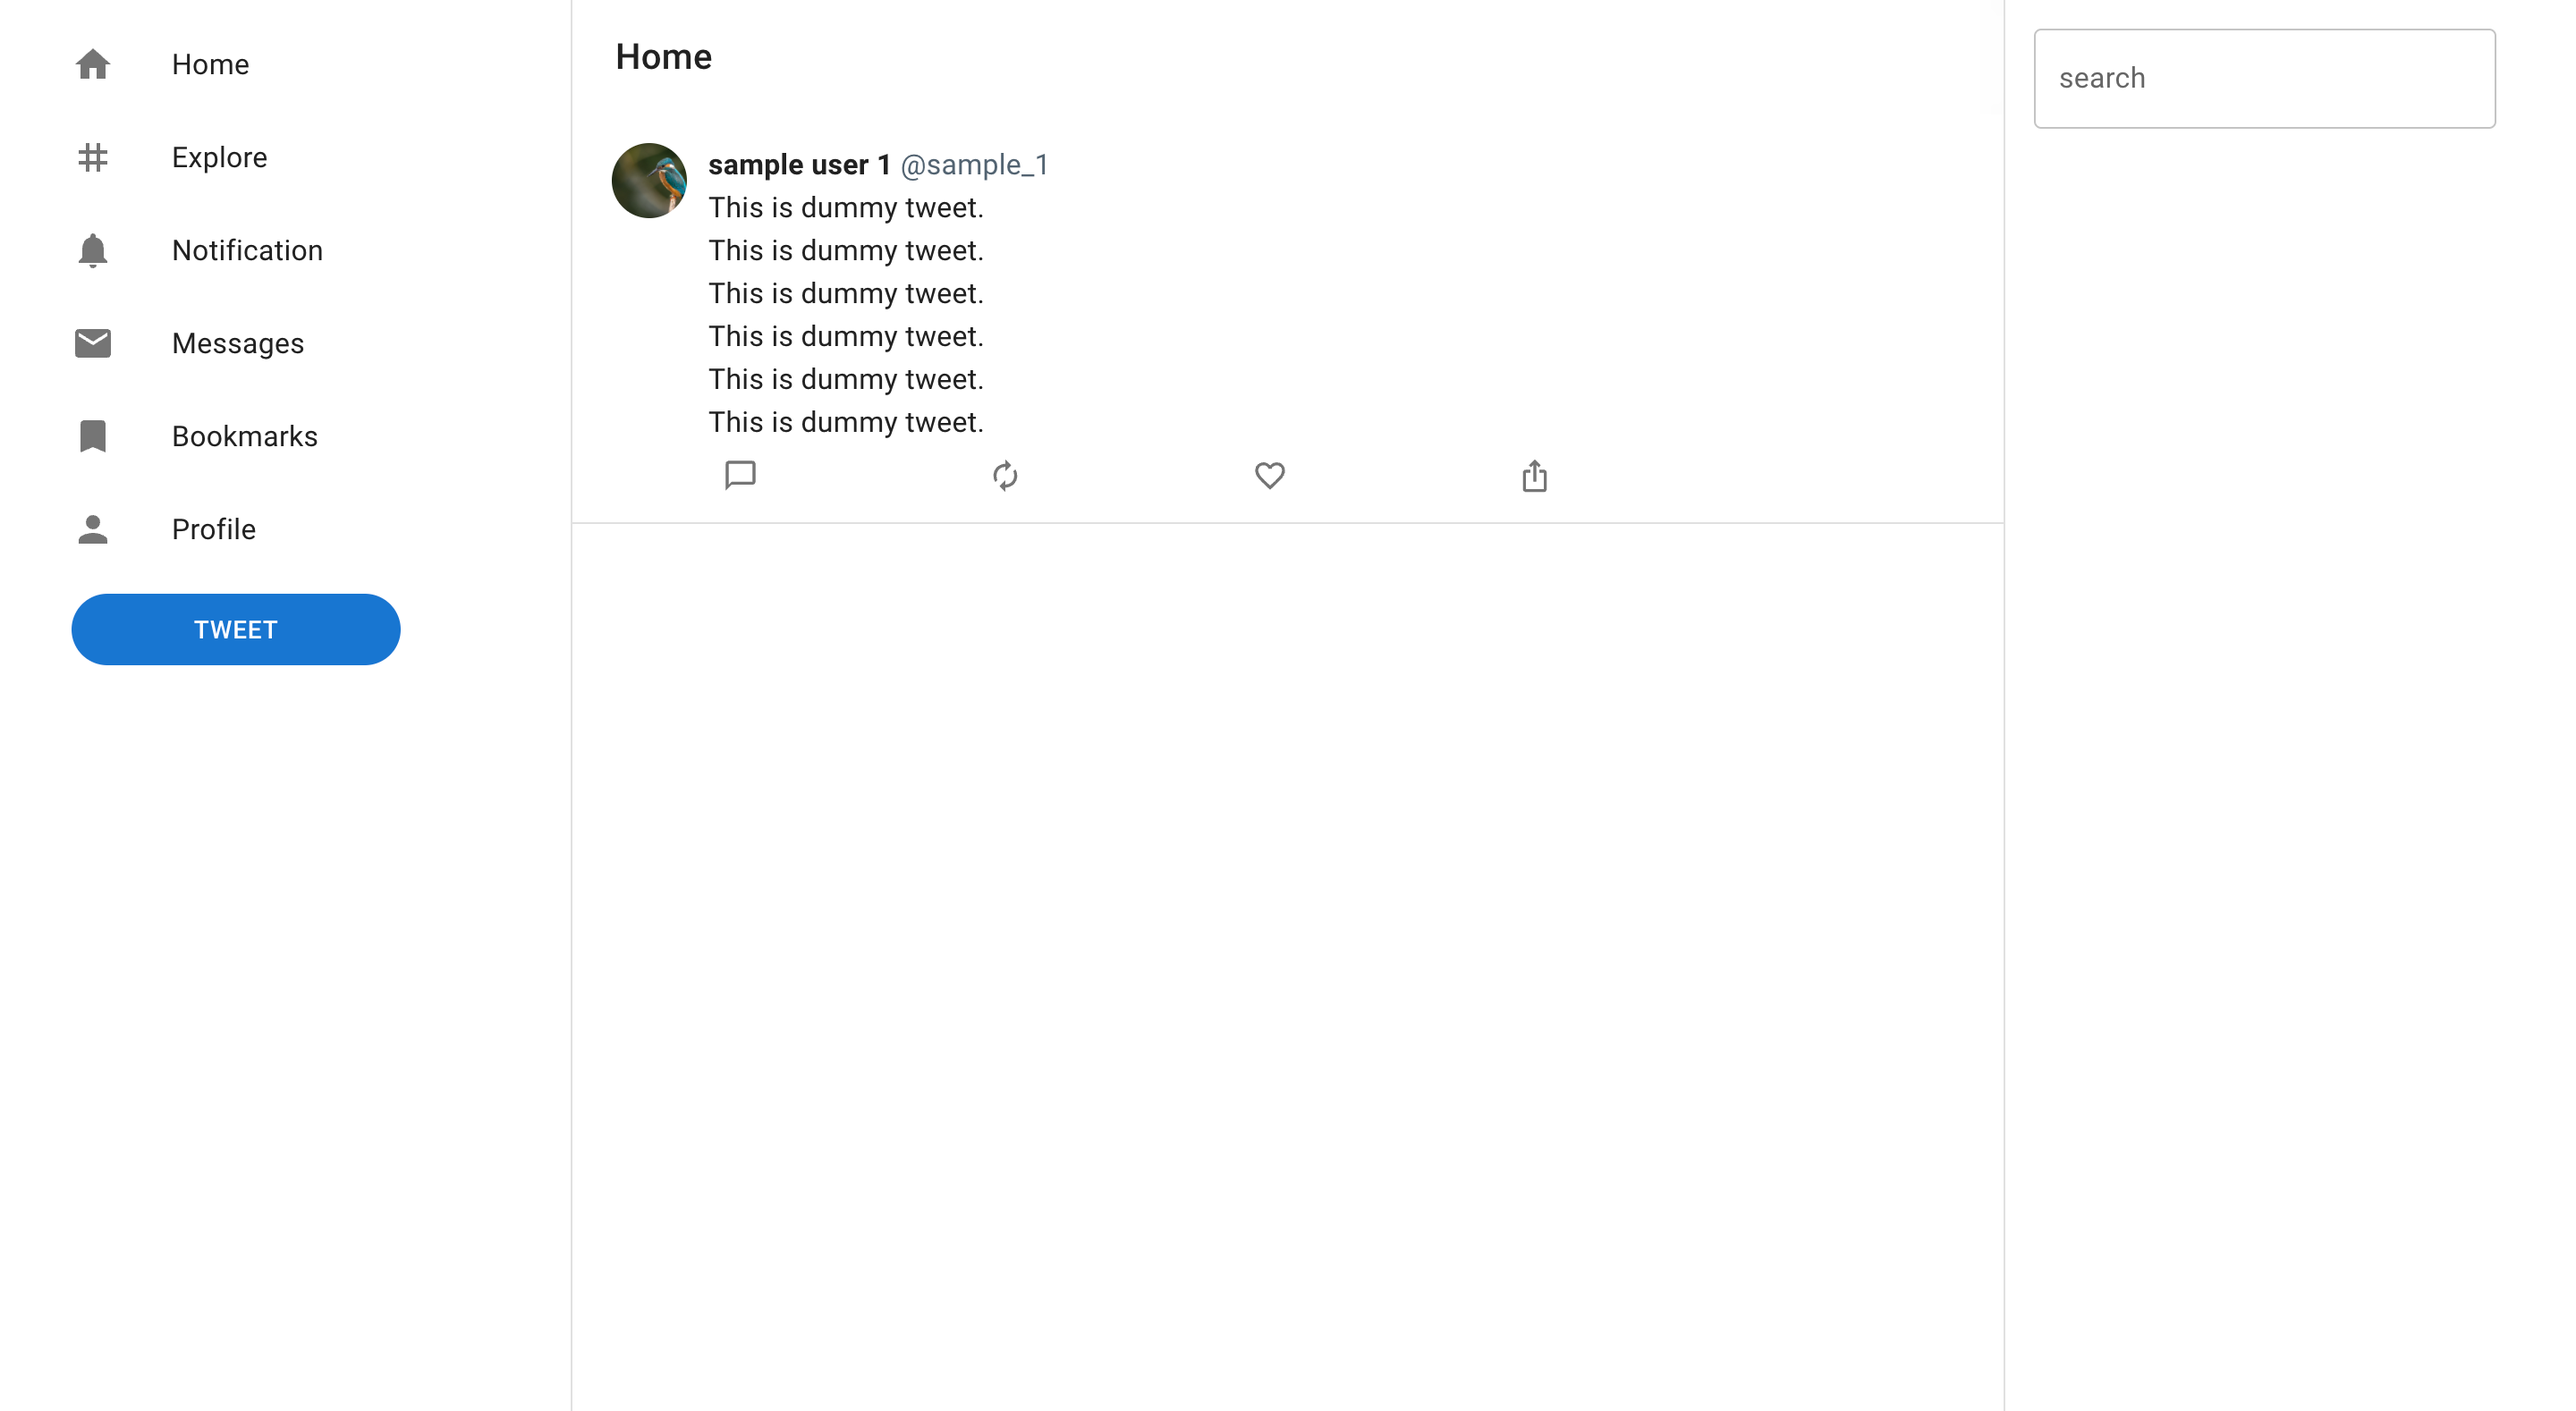
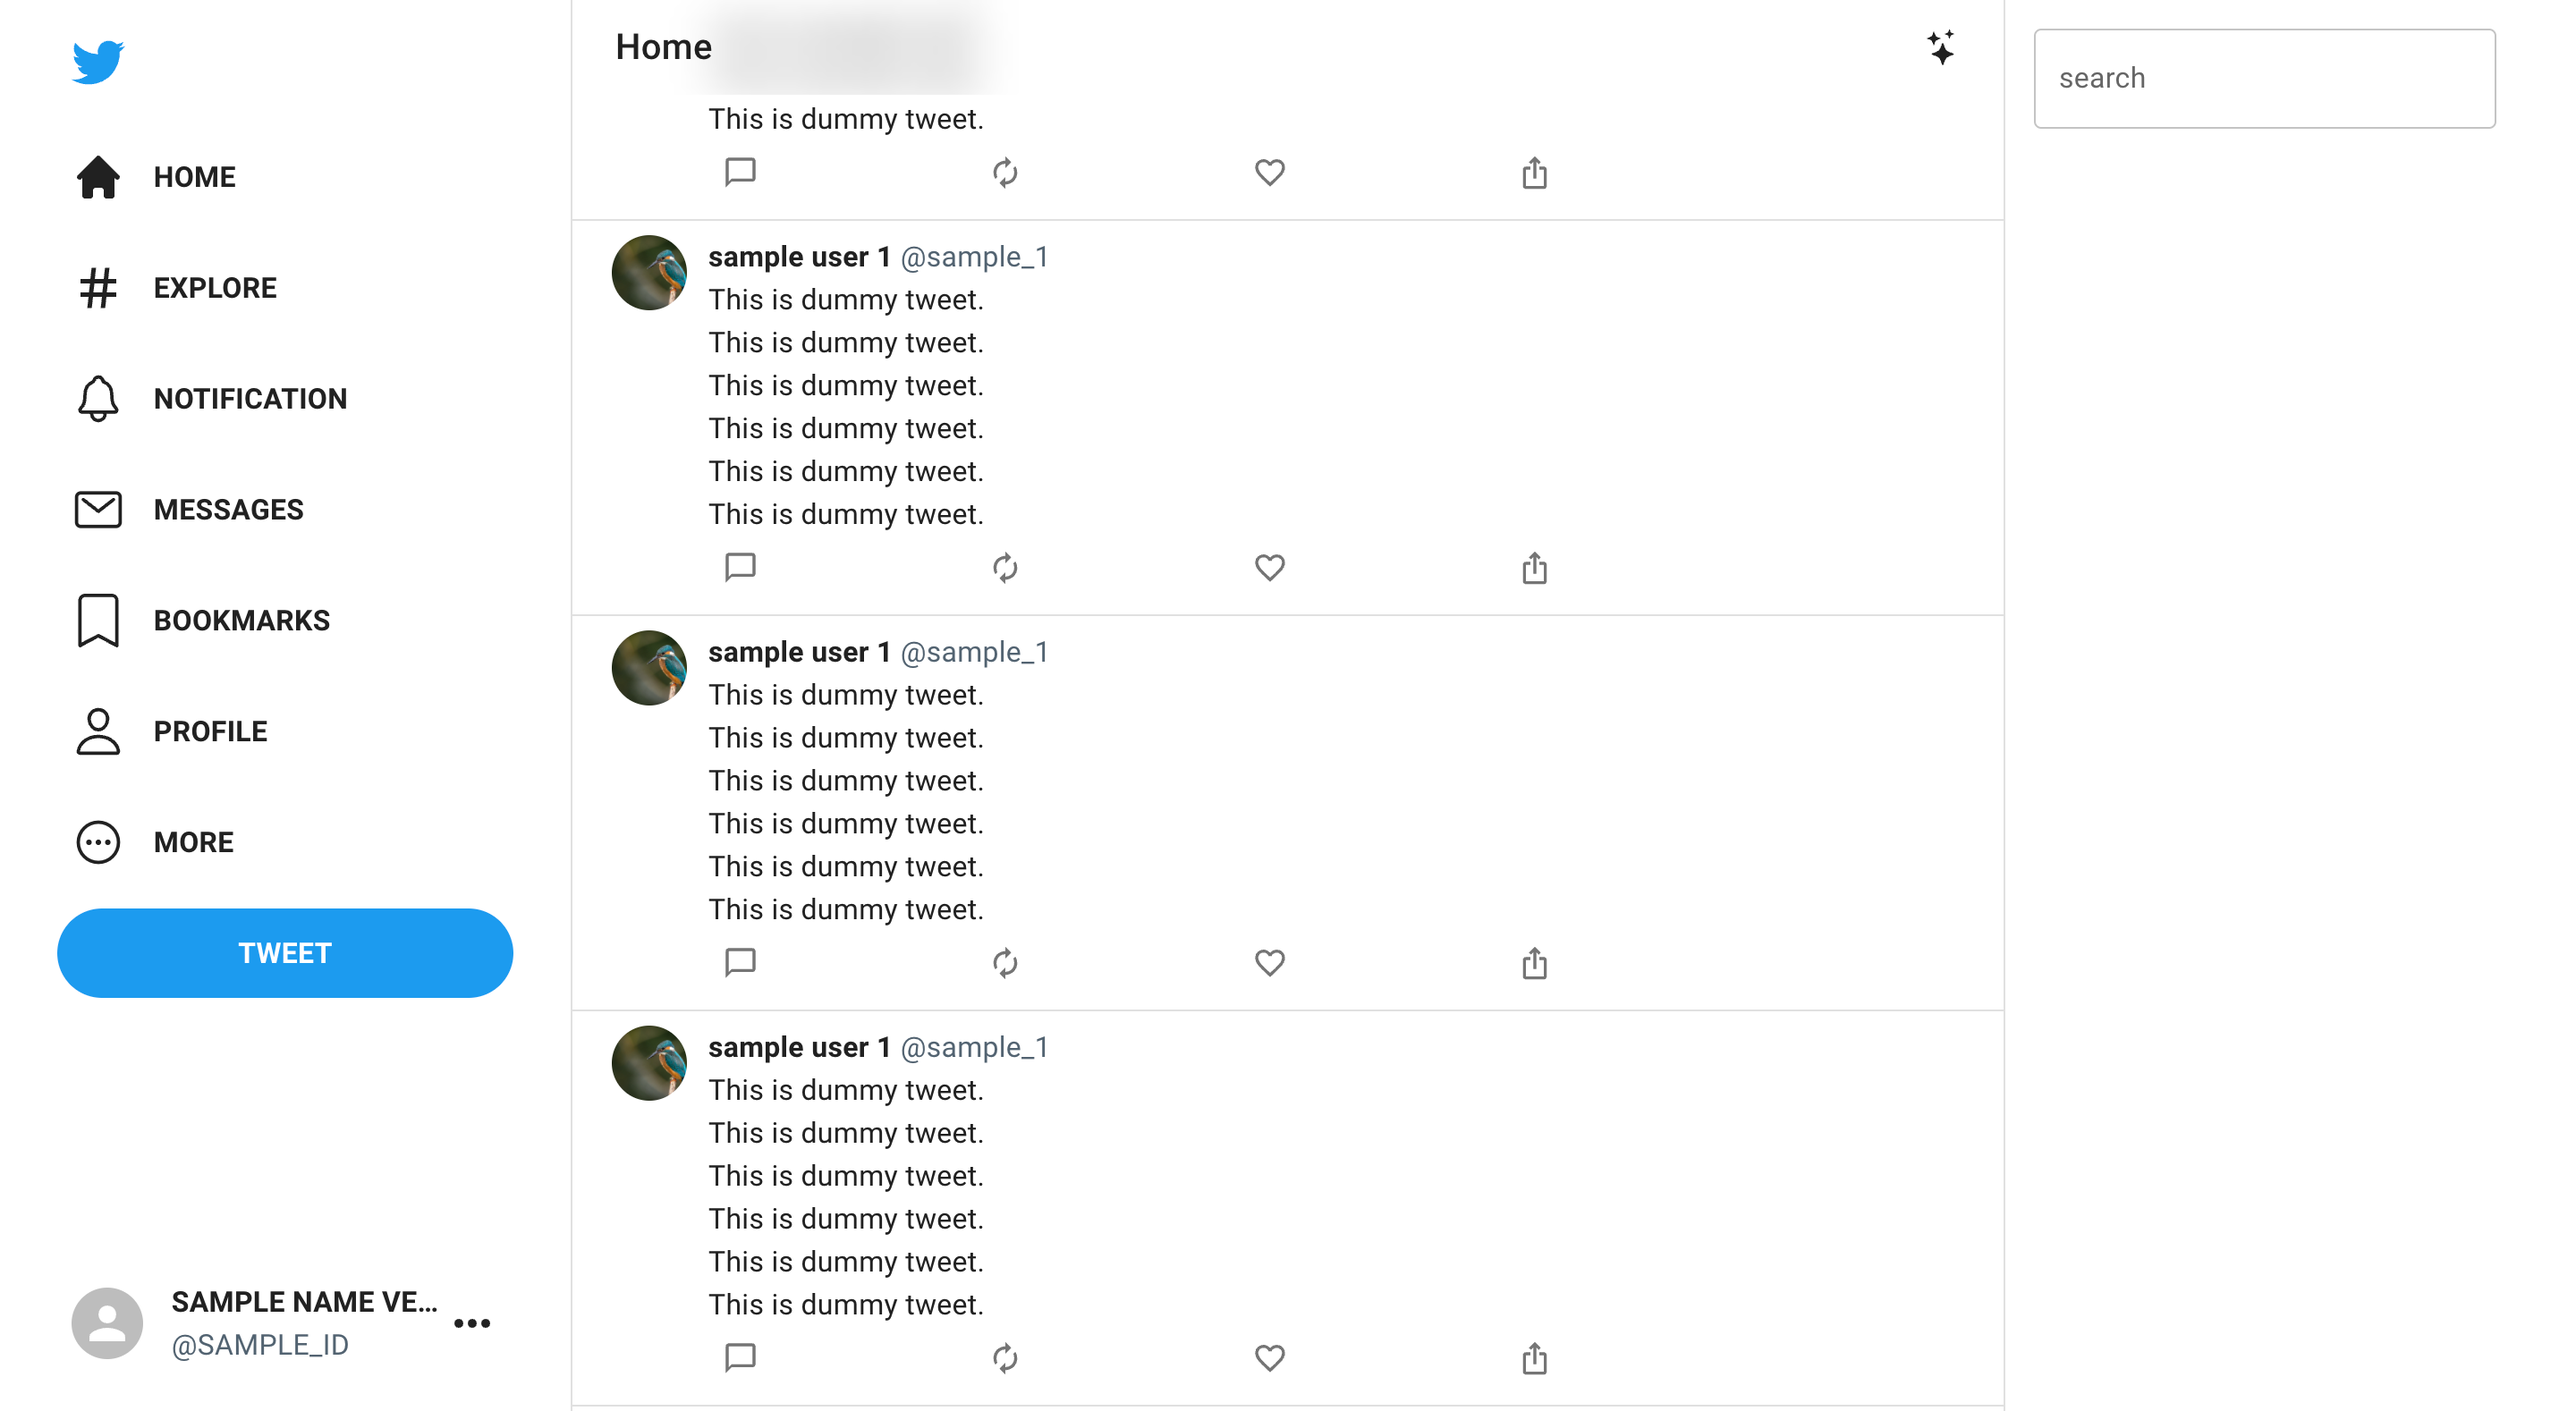
add account button to sidebar

diff --git a/frontend/src/layout/Sidebar.tsx b/frontend/src/layout/Sidebar.tsx
@@ -12,6 +12,7 @@ import {
   Box,
   Typography,
   Grid,
+  Avatar,
 } from "@mui/material";
 import { styled } from "@mui/material/styles";
 import { Tag } from "@mui/icons-material";
@@ -27,6 +28,7 @@ import {
   IoEllipsisHorizontalCircleOutline as MoreIcon,
 } from "react-icons/io5";
 import { BsBookmark as Bookmark } from "react-icons/bs";
+import { BiDotsHorizontalRounded as Dots } from "react-icons/bi";
 
 const Sidebar: FC<{ drawerWidth: number }> = (props) => {
   const drawerItems: Array<[string, JSX.Element]> = [
@@ -36,7 +38,7 @@ const Sidebar: FC<{ drawerWidth: number }> = (props) => {
     ["Messages", <Mail size={30} />],
     ["Bookmarks", <Bookmark size={30} />],
     ["Profile", <Person size={30} />],
-    ["More", <MoreIcon size={30} />]
+    ["More", <MoreIcon size={30} />],
   ];
   const drawerWidth = props.drawerWidth;
 
@@ -47,45 +49,113 @@ const Sidebar: FC<{ drawerWidth: number }> = (props) => {
   }));
 
   const ItemButton = styled(Button)((theme) => ({
-    borderRadius: 2000,
     height: "50px",
   }));
 
   const TweetButton = styled(Button)((theme) => ({
     width: "100%",
     height: "100%",
-    borderRadius: 2000,
+  }));
+
+  const AccountBox = styled(Box)(({ theme }) => ({
+    flexDirection: "row",
+    alignItems: "center",
+    justifyContent: "center",
+    width: "80%",
+    height: "50px",
+    marginTop: "12px",
+    marginBottom: "24px",
+  }));
+
+  const AccountButton = styled(Button)(({ theme }) => ({
+    height: "50px",
+    width: "100%",
   }));
 
   const drawerContent = (
     <>
-      <Stack direction="column" alignItems="center">
-        <ItemBox>
-          <IconButton color="primary">
-            <TwitterIcon size={30} />
-          </IconButton>
-        </ItemBox>
-        {drawerItems.map(([text, icon]) => (
+      <Stack
+        direction="column"
+        justifyContent="space-between"
+        height="100%"
+        width="100%"
+      >
+        <Stack direction="column" alignItems="center">
           <ItemBox>
-            <ItemButton color="inherit">
-              <Stack direction="row" alignItems="center">
-                <Box display={"flex"} marginRight="16px">
-                  {icon}
-                </Box>
-                <Typography marginRight={"8px"} fontWeight={700}>
-                  {text}
-                </Typography>
-              </Stack>
-            </ItemButton>
+            <IconButton color="primary">
+              <TwitterIcon size={30} />
+            </IconButton>
           </ItemBox>
-        ))}
-        <ItemBox>
-          <TweetButton variant="contained" disableElevation>
-            <Typography fontWeight={700}>
-              Tweet
-            </Typography>
-          </TweetButton>
-        </ItemBox>
+          {drawerItems.map(([text, icon]) => (
+            <ItemBox>
+              <ItemButton color="inherit">
+                <Stack direction="row" alignItems="center">
+                  <Box display={"flex"} marginRight="16px">
+                    {icon}
+                  </Box>
+                  <Typography marginRight={"8px"} fontWeight={700}>
+                    {text}
+                  </Typography>
+                </Stack>
+              </ItemButton>
+            </ItemBox>
+          ))}
+          <ItemBox>
+            <TweetButton variant="contained" disableElevation>
+              <Typography fontWeight={700}>Tweet</Typography>
+            </TweetButton>
+          </ItemBox>
+        </Stack>
+        <Stack direction="column" alignItems="center">
+          <AccountBox>
+            <AccountButton color="inherit">
+              <Stack
+                direction="row"
+                alignItems="center"
+                justifyContent="space-between"
+                width="100%"
+                maxWidth="100%"
+                boxSizing="border-box"
+              >
+                <Box display={"flex"} marginRight="16px" flexShrink={0}>
+                  <Avatar />
+                </Box>
+                <Stack
+                  direction="column"
+                  alignItems="flex-start"
+                  justifyContent="center"
+                  flexShrink={1}
+                  overflow="hidden"
+                >
+                  <Typography
+                    component="span"
+                    fontWeight={700}
+                    width="100%"
+                    overflow="hidden"
+                    whiteSpace="nowrap"
+                    textOverflow="ellipsis"  
+                  >
+                    sample name very very long
+                  </Typography>
+                  <Typography
+                    fontWeight={400}
+                    color="rgb(83, 100, 113)"
+                    component="span"
+                  >
+                    @sample_id
+                  </Typography>
+                </Stack>
+                <Stack
+                  direction="column"
+                  justifyContent="center"
+                  flexShrink={0}
+                >
+                  <Dots size={30} />
+                </Stack>
+              </Stack>
+            </AccountButton>
+          </AccountBox>
+        </Stack>
       </Stack>
     </>
   );

diff --git a/frontend/src/routes/Home/index.tsx b/frontend/src/routes/Home/index.tsx
@@ -1,14 +1,23 @@
-import { AppBar, Box, IconButton, Toolbar, Typography } from "@mui/material";
+import {
+  AppBar,
+  Box,
+  IconButton,
+  Stack,
+  Toolbar,
+  Typography,
+} from "@mui/material";
 import { styled, useTheme } from "@mui/material/styles";
-import { Menu } from "@mui/icons-material";
+import { BsStars as StarsIcon } from "react-icons/bs";
+
 import Tweets from "./Tweets";
 import ExploreInHome from "./ExploreInHome";
 
 const drawerWidth = 320;
 
 const HomeAppBar = styled(AppBar)(() => ({
-  width: `calc(100% - ${drawerWidth}px)`,
+  width: `calc(100% - ${drawerWidth * 2}px)`,
   marginLeft: `${drawerWidth}px`,
+  marginRight: `${drawerWidth}px`,
   background: "transparent",
   boxShadow: "none",
   backdropFilter: "blur(12px)",
@@ -41,9 +50,14 @@ const Home = () => {
       <BoxHome>
         <HomeAppBar color="default" position="fixed">
           <Toolbar>
-            <Typography variant="h6" component="div" sx={{ flexGrow: 1 }}>
-              Home
-            </Typography>
+            <Stack direction="row" justifyContent="space-between" width="100%">
+              <Typography variant="h6" component="div" sx={{ flexGrow: 1 }}>
+                Home
+              </Typography>
+              <Stack direction="column" justifyContent="center">
+                <StarsIcon size={20} />
+              </Stack>
+            </Stack>
           </Toolbar>
         </HomeAppBar>
         <Main>

diff --git a/frontend/src/App.tsx b/frontend/src/App.tsx
@@ -14,17 +14,31 @@ import Sidebar from "./layout/Sidebar";
 
 const App = () => {
   const theme = createTheme({
+    palette: {
+      primary: {
+        main: "rgb(29, 155, 240)",
+      }
+    },
     mixins: {
       toolbar: {
         minHeight: "53px",
       },
     },
+    components: {
+      MuiButton: {
+        styleOverrides: {
+          root: {
+            borderRadius: "2000px",
+          }
+        }
+      }
+    }
   });
 
   const drawerWidth = 320;
   return (
     <ThemeProvider theme={theme}>
-      <Box sx={{ display: "flex" }}>
+      <Box sx={{ display: "flex", height: "100%" }} top="0px">
         <CssBaseline />
         <Sidebar drawerWidth={drawerWidth} />
         <Box component="div" width="100%">

diff --git a/frontend/public/index.html b/frontend/public/index.html
@@ -1,5 +1,5 @@
 <!DOCTYPE html>
-<html lang="en">
+<html lang="en" style="overflow: auto scroll;overscroll-behavior-y: none;">
   <head>
     <meta charset="utf-8" />
     <link rel="icon" href="%PUBLIC_URL%/favicon.ico" />
